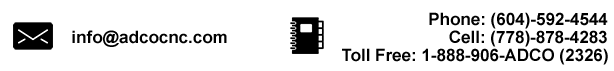
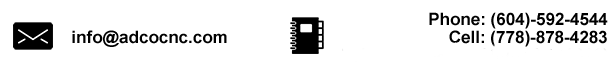
Update contact info / map

Changed region(s): [[0.557, 0.6761, 0.9902, 0.9014]]

diff --git a/contact.html b/contact.html
@@ -122,9 +122,11 @@
                         eval(unescape("%6c%74%78%72%6a%30%39%3d%5b%27%25%36%39%25%36%65%25%36%36%25%36%66%27%2c%5b%27%25%36%33%25%36%66%25%36%64%27%2c%27%25%36%31%25%36%34%25%36%33%25%36%66%25%36%33%25%36%65%25%36%33%27%5d%2e%72%65%76%65%72%73%65%28%29%2e%6a%6f%69%6e%28%27%2e%27%29%5d%2e%6a%6f%69%6e%28%27%40%27%29%3b%79%65%61%6f%65%30%35%3d%75%6e%65%73%63%61%70%65%28%6c%74%78%72%6a%30%39%29%3b%64%6f%63%75%6d%65%6e%74%2e%77%72%69%74%65%28%79%65%61%6f%65%30%35%2e%6c%69%6e%6b%28%27%6d%61%69%27%2b%27%6c%74%6f%3a%27%2b%6c%74%78%72%6a%30%39%29%29%3b"));
 
                     </script>
-                    <br />
-                    <img src="assets/img/adco/contactInfo.png" alt="ADCO CNC Machining Detailed Contact Info">
-                    <br/>
+                    <ul>
+						<li>Phone: 604-592-4544</li>
+						<li>Cell: 778-878-4283</li>
+						<li>Email: info@adcocnc.com</li>
+					</ul>
                     <div style="width: 70px; height: 30px; float:left; ">
                         <span class="highlight3">Email Form:
               </span>
@@ -209,17 +211,17 @@
                     <b>Delta BC, V4G 1E2, Canada
             </b>
                     <!--Start Map -->
-                    <a href="https://maps.google.com.ph/maps?q=13119+84+Ave+Surrey+BC+Canada" target="blank">
-                        <img src="assets/img/adco/map.png" class="map" alt="ADCO CNC Machining Map of Location">
+                    <a href="https://maps.app.goo.gl/AG84s2tMXFon9p9L7" target="blank">
+                        <img src="assets/img/adco/map.jpg" class="map" alt="ADCO CNC Machining Map of Location">
                     </a>
                     <br/>
-                    <a href="https://maps.google.com.ph/maps?q=13119+84+Ave+Surrey+BC+Canada" style="margin-left: 10px;" target="blank">
+                    <a href="https://maps.app.goo.gl/AG84s2tMXFon9p9L7" style="margin-left: 10px;" target="blank">
               Click here for 
               <b>Large Map and Directions
               </b>
             </a>
                     <br/>
-                    <a href="https://maps.google.com.ph/maps?q=13119+84+Ave+Surrey+BC+Canada" style="margin-left: 10px;" target="blank">
+                    <a href="https://maps.app.goo.gl/AG84s2tMXFon9p9L7" style="margin-left: 10px;" target="blank">
               7157 Honeyman St, Unit 18, Delta BC, V4G 1E2, Canada
             </a>
                     <!-- End map -->
